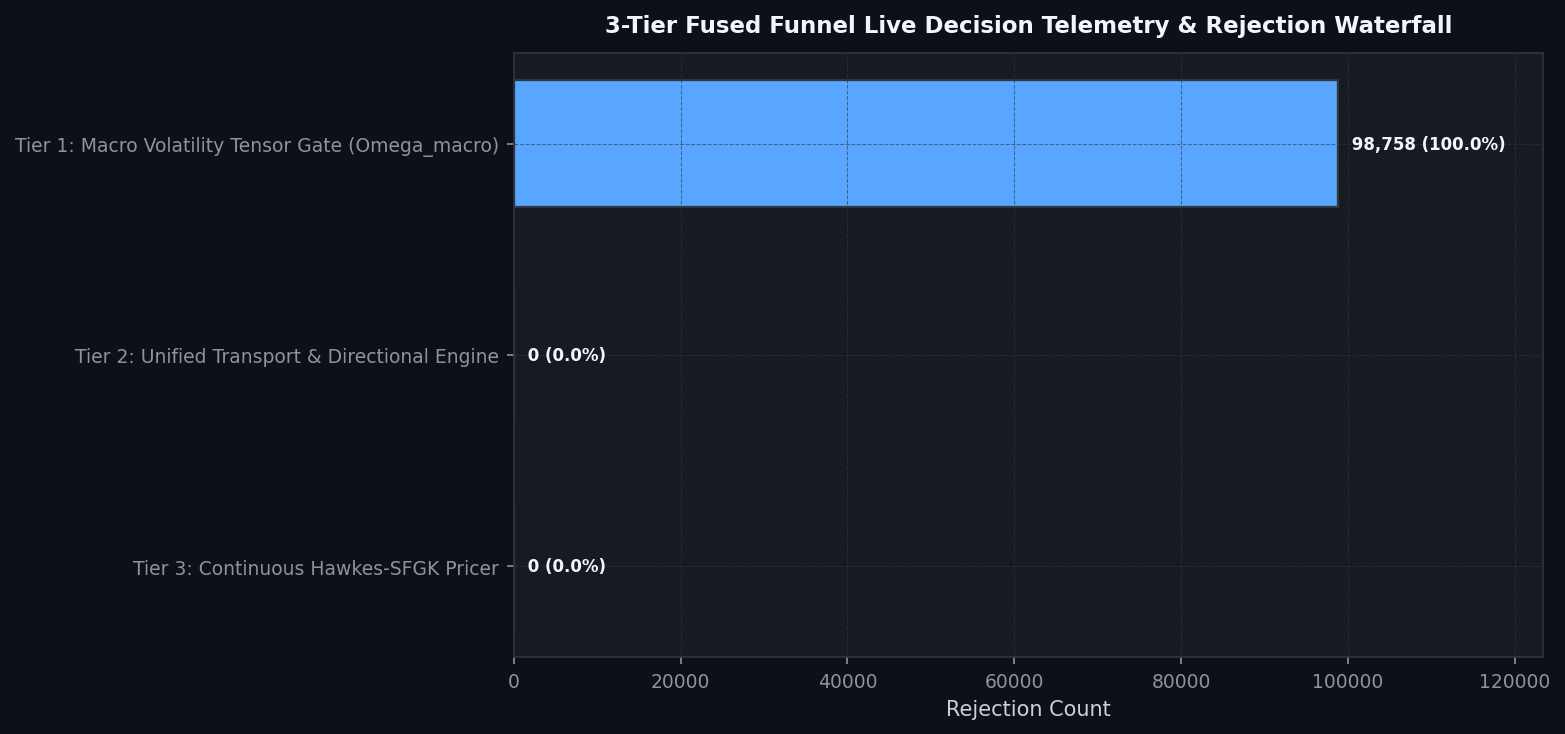
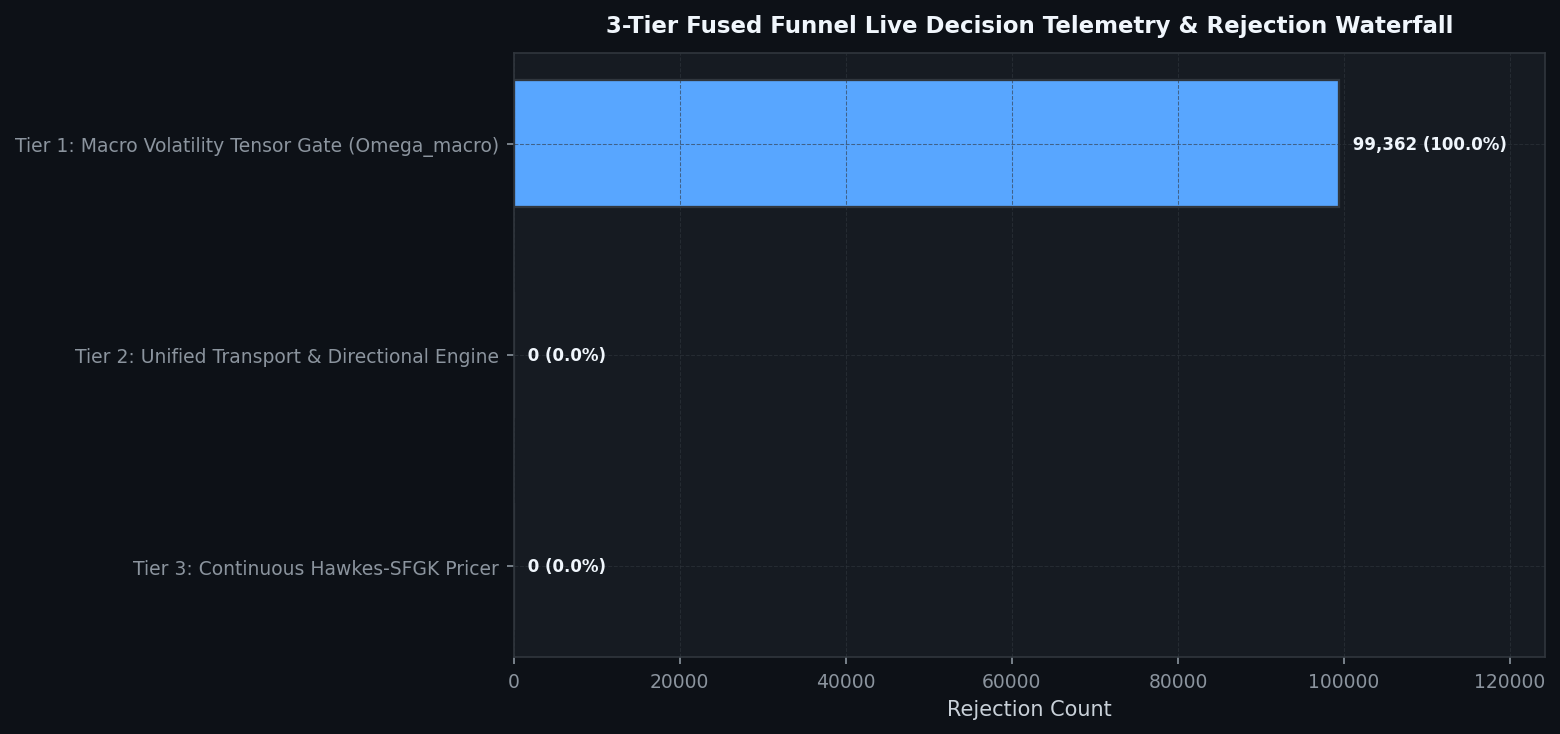
[coinbase] Hourly Status & Visual Intelligence Update: 2026-09-03 19:53:15

diff --git a/coinbase/data/hourly_status_report.md b/coinbase/data/hourly_status_report.md
@@ -3,7 +3,7 @@ layout: default
 ---
 
 # 🛡 Unified Trading System Hourly Status & Visual Intelligence
-> **Report Generated**: `2026-09-03 07:34:25 PM PDT (2026-09-04 02:34:25 UTC)`  
+> **Report Generated**: `2026-09-03 07:52:55 PM PDT (2026-09-04 02:52:55 UTC)`  
 > **System Health**: **🟡 DEGRADED / RESTRICTED** | **Win Rate**: `0.0%` | **Completed Trades**: `0`
 
 
@@ -15,13 +15,13 @@ Real-time Deribit implied volatility (DVOL) proxy tracking against mathematicall
 
 | Symbol | Proxy Oracle | Live Z-Score | Optimal Limit (YSP) | Safety Margin | Live VRP | Optimal VRP (YSP) | DAW Safety Verdict |
 | :--- | :--- | :--- | :--- | :--- | :--- | :--- | :--- |
-| `AVAX-USD` | DVOL_BTC | **-0.07** | **-0.50** | **+0.43** | **N/A** | -1.0 | 🔴 DAW VETOED |
-| `ETH-USD` | DVOL_ETH | **+0.69** | **-0.50** | **+1.19** | **+1.36** | -1.0 | 🔴 DAW VETOED |
-| `ADA-USD` | DVOL_BTC | **-0.07** | **-0.50** | **+0.43** | **-12.50** | -1.0 | 🔴 DAW VETOED |
-| `DOGE-USD` | DVOL_BTC | **-0.07** | **-0.50** | **+0.43** | **-12.16** | -1.0 | 🔴 DAW VETOED |
-| `BTC-USD` | DVOL_BTC | **-0.07** | **-0.50** | **+0.43** | **-12.50** | -1.0 | 🔴 DAW VETOED |
-| `LINK-USD` | DVOL_BTC | **-0.07** | **-0.50** | **+0.43** | **-10.81** | -1.0 | 🔴 DAW VETOED |
-| `SOL-USD` | DVOL_BTC | **-0.07** | **-0.50** | **+0.43** | **-12.50** | -1.0 | 🔴 DAW VETOED |
+| `AVAX-USD` | DVOL_BTC | **-0.08** | **-0.50** | **+0.42** | **N/A** | -1.0 | 🔴 DAW VETOED |
+| `ETH-USD` | DVOL_ETH | **+0.64** | **-0.50** | **+1.14** | **+1.41** | -1.0 | 🔴 DAW VETOED |
+| `ADA-USD` | DVOL_BTC | **-0.08** | **-0.50** | **+0.42** | **-12.83** | -1.0 | 🔴 DAW VETOED |
+| `DOGE-USD` | DVOL_BTC | **-0.08** | **-0.50** | **+0.42** | **-12.16** | -1.0 | 🔴 DAW VETOED |
+| `BTC-USD` | DVOL_BTC | **-0.08** | **-0.50** | **+0.42** | **-12.83** | -1.0 | 🔴 DAW VETOED |
+| `LINK-USD` | DVOL_BTC | **-0.08** | **-0.50** | **+0.42** | **-10.81** | -1.0 | 🔴 DAW VETOED |
+| `SOL-USD` | DVOL_BTC | **-0.08** | **-0.50** | **+0.42** | **-12.83** | -1.0 | 🔴 DAW VETOED |
 
 
 
@@ -37,12 +37,12 @@ We hereby certify that the mission-critical algorithmic data assets uploaded by 
 
 | Status | Data Asset | Freshness / State | Details / Timestamp |
 | :---: | :--- | :--- | :--- |
-| ✅ | **Go-List JSON** | Fresh (6.95h old) | 09-03 12:37 |
-| ✅ | **TimesFM Forecasts** | Fresh (3.54h old) | 09-03 16:02 |
-| ✅ | **Holding Times config** | Fresh (78.85h old) | 08-31 12:43 |
-| ✅ | **BTC DVOL Cache** | Fresh (0.01h old) | 09-03 19:34 |
-| ✅ | **ETH DVOL Cache** | Fresh (0.00h old) | 09-03 19:34 |
-| ✅ | **Live Trading Telemetry** | Fresh (0.00h old) | 09-03 19:34 |
+| ✅ | **Go-List JSON** | Fresh (7.25h old) | 09-03 12:37 |
+| ✅ | **TimesFM Forecasts** | Fresh (3.85h old) | 09-03 16:02 |
+| ✅ | **Holding Times config** | Fresh (79.16h old) | 08-31 12:43 |
+| ✅ | **BTC DVOL Cache** | Fresh (0.01h old) | 09-03 19:52 |
+| ✅ | **ETH DVOL Cache** | Fresh (0.00h old) | 09-03 19:52 |
+| ✅ | **Live Trading Telemetry** | Fresh (0.00h old) | 09-03 19:53 |
 
 <br>
 
@@ -55,7 +55,7 @@ Layer-by-layer tick evaluation waterfall and asset-specific performance tracking
 
 | Funnel Filter Layer | Total Rejections | % of Rejections |
 | :--- | :--- | :--- |
-| Tier 1: Macro Volatility Tensor Gate (Omega_macro) | `98,758` | **100.0%** |
+| Tier 1: Macro Volatility Tensor Gate (Omega_macro) | `99,362` | **100.0%** |
 | Tier 2: Unified Transport & Directional Engine | `0` | **0.0%** |
 | Tier 3: Continuous Hawkes-SFGK Pricer (HAS-Pricer) | `0` | **0.0%** |
 | System: Asset Cooldown Active | `0` | **0.0%** |
@@ -86,12 +86,12 @@ Operational telemetry of the high-velocity stablecoin market-making and VIP fee 
 | **Target Peg Pair** | `USDT-USD` | Dynamic Top-of-Book Post-Only Maker liquidity |
 | **Tranche Order Sizing** | `$5,000.00 USD` | Multi-block continuous capital rotation |
 | **HFT Reserve Floor** | `$15,000.00 USD` | Unencumbered liquid USD strictly reserved for 0ms volatile strikes |
-| **Priority Interrupt Mode** | 🟡 YIELDING TO HFT (NON_UU_EMERGENT=True) | Instantly cancels U/U buys when volatile trade enters |
+| **Priority Interrupt Mode** | ⚪ INACTIVE | Instantly cancels U/U buys when volatile trade enters |
 | **Active BUY Tranches** | **0 Orders** (`$0.00 USD`) | Resting Limit Bids pegged to Best Bid |
 | **Active SELL Tranches** | **0 Orders** (`$0.00 USDT`) | Resting Limit Asks pegged to Best Ask |
 | **Total Deployed U/U Capital** | **`$0.00 USD`** | Active bidirectional turnover liquidity pool |
-| **Rolling 30-Day Volume** | **`$2,368,574.63 USD`** | **VIP 2** (Maker: **0.05%** / 5 bps, Taker: **0.10%**) |
-| **Next Tier Milestone (VIP 3)** | **47.4% Complete** | `$2,631,425.37 USD` to reach $5,000,000.00 threshold |
+| **Rolling 30-Day Volume** | **`$2,369,558.14 USD`** | **VIP 2** (Maker: **0.05%** / 5 bps, Taker: **0.10%**) |
+| **Next Tier Milestone (VIP 3)** | **47.4% Complete** | `$2,630,441.86 USD` to reach $5,000,000.00 threshold |
 
 
 ---
@@ -121,10 +121,10 @@ Live balance sheet and open maker liquidity positions from Coinbase CDP.
 | Product | Side | Limit Price | Base Size | Order ID |
 | :--- | :--- | :--- | :--- | :--- |
 | `ACH-USD` | SELL | 0.00551 | 8,234.10 | `a0d2e243-42b4-4df5-bd23-118f45998df8` |
-| `DOGE-USD` | SELL | 0.08724 | 22,575.90 | `82a8c38c-2cd8-4bdc-88be-fba2a514d91d` |
 | `AVAX-USD` | SELL | 7.54100 | 165.56 | `a1bed37d-a76c-44d4-bbdc-5a872c02d58a` |
+| `ETH-USD` | SELL | 2,505.78000 | 0.39 | `a535e174-0ed3-41e9-a776-dea7f8f547d8` |
+| `DOGE-USD` | SELL | 0.08724 | 22,575.90 | `82a8c38c-2cd8-4bdc-88be-fba2a514d91d` |
 | `LINK-USD` | SELL | 11.92100 | 106.19 | `c467bc85-c8ca-42ba-9b70-4992393f6bc4` |
-| `ETH-USD` | BUY | 2,499.53000 | 0.39 | `6f4926b7-f8d4-4829-9a94-91cee11816fd` |
 
 
 
@@ -132,14 +132,14 @@ Live balance sheet and open maker liquidity positions from Coinbase CDP.
 ## 6. 🤖 Foundation Model MLOps & Pipeline Orchestration
 Weekly Algorithmic Mega Cap selection, Zero-shot multi-step forward return forecasts, and VSTEF parameter grid search status.
 
-- **TimesFM Forecast DB**: 🟢 Updated 3.5h ago (2026-09-03 04:02 PM PDT)
+- **TimesFM Forecast DB**: 🟢 Updated 3.9h ago (2026-09-03 04:02 PM PDT)
 - **Last Weekly VSTEF Optimization**: `2026-08-31 12:42:56 PM PDT`
-- **Next Scheduled VSTEF Run**: `2026-09-06 07:00:00 PM PDT (Monday 02:00 UTC)` (Countdown: **71.4h (2d 23h 25m)**)
+- **Next Scheduled VSTEF Run**: `2026-09-06 07:00:00 PM PDT (Monday 02:00 UTC)` (Countdown: **71.1h (2d 23h 6m)**)
 - **Promoted Parameter Gates**: $Z_{DVOL} \le -0.5$ | Holding Horizon $= 12\text{h}$
 
 ### Algorithmic Mega Cap Selection
 - **Last Run (Confirmation)**: `2026-09-03 12:37:49 PM PDT`
-- **Next Scheduled Run**: `2026-09-06 06:00:00 PM PDT (Monday 01:00 UTC)` (Countdown: **70.4h (2d 22h 25m)**)
+- **Next Scheduled Run**: `2026-09-06 06:00:00 PM PDT (Monday 01:00 UTC)` (Countdown: **70.1h (2d 22h 6m)**)
 - **Selected Mega Cap Universe**: `BTC, ETH, DOGE, SUI, XRP, SOL, ZEC`
 
 
@@ -153,8 +153,8 @@ Visualizing the impact of the VSTEF (Volatility-Synchronized Stop-Tightening Exe
 ## 7. 🖥 Multi-Node Infrastructure & Watchdog Matrix
 ```text
 ================================================================================
-   🛡  SFGK FUNNEL GUARDIAN WATCHDOG (HFT ONLY) |  02:34:23 AM
-   CPU:   8.0%  |  MEM:   9.4% (14.0GB / 15.4GB Free)
+   🛡  SFGK FUNNEL GUARDIAN WATCHDOG (HFT ONLY) |  02:52:53 AM
+   CPU:   7.1%  |  MEM:   9.4% (14.0GB / 15.4GB Free)
 ================================================================================
 SERVICE              | PID      | STATUS          | RESTARTS | INFO
 --------------------------------------------------------------------------------
@@ -163,7 +163,7 @@ MAO Daemon           | 2809273  | RUNNING         | -        | Oracle Yield Anal
 U/U Farmer           | -        | DISABLED        | -        | Excluded from Fee Tier
 Trader AVAX-USD      | 2809274  | RUNNING         | 0        | Evaluating Funnel/Polling Order
 Trader ETH-USD       | 2834685  | RUNNING         | 7        | Evaluating Funnel/Polling Order
-Trader ADA-USD       | 2833321  | RUNNING         | 4        | Evaluating Funnel/Polling Order
+Trader ADA-USD       | 2837854  | RUNNING         | 5        | Evaluating Funnel/Polling Order
 Trader DOGE-USD      | 2809277  | RUNNING         | 0        | Evaluating Funnel/Polling Order
 Trader BTC-USD       | 2809278  | RUNNING         | 0        | Evaluating Funnel/Polling Order
 Trader LINK-USD      | 2809280  | RUNNING         | 0        | Evaluating Funnel/Polling Order

diff --git a/coinbase/data/visual_intelligence.md b/coinbase/data/visual_intelligence.md
@@ -4,7 +4,7 @@ title: Visual Intelligence Gallery
 ---
 
 # 📈 Visual Intelligence Gallery
-> **Generated:** `2026-09-03 19:34:45`
+> **Generated:** `2026-09-03 19:53:15`
 > **[Return to Main Status Report](./hourly_status_report.md)**
 
 This page visualizes the internal states, market profiles, and decision criteria of the active **3-Tier Fused Decision Engine** across all layers.
